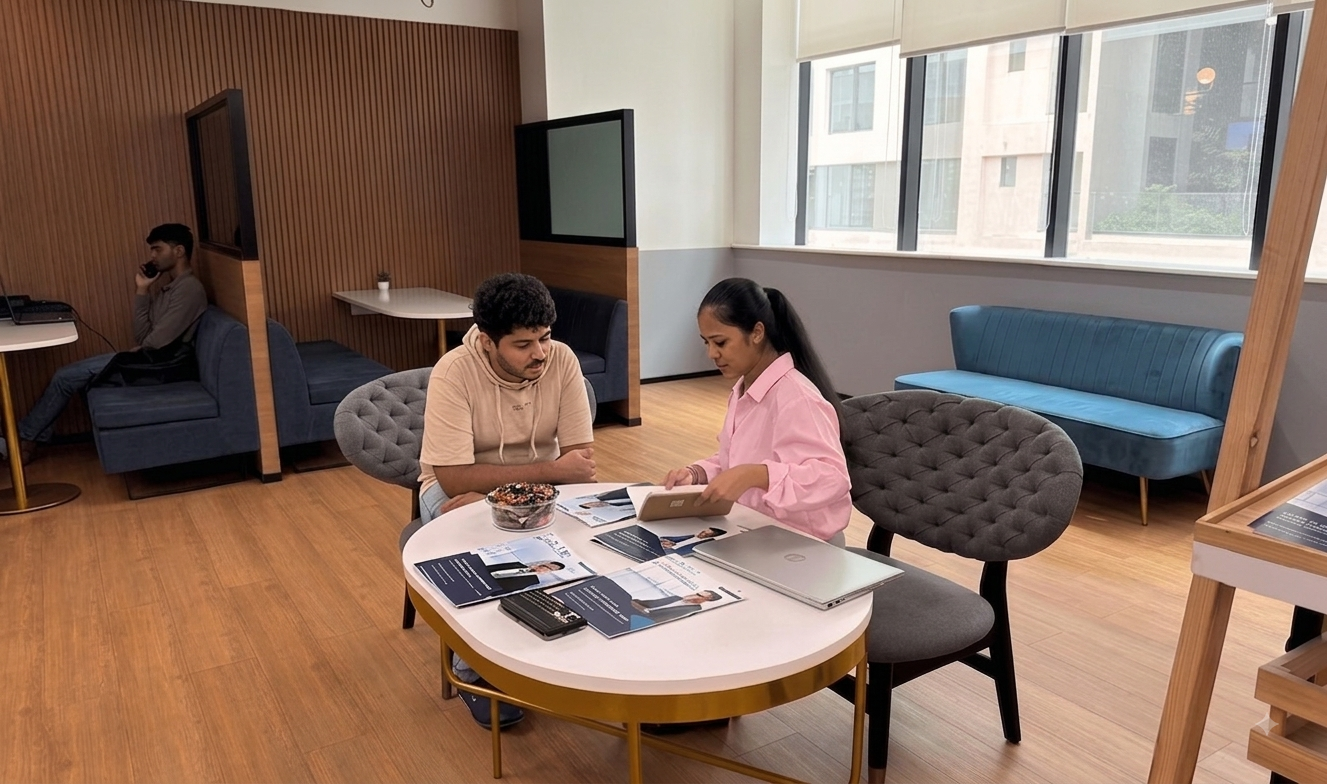
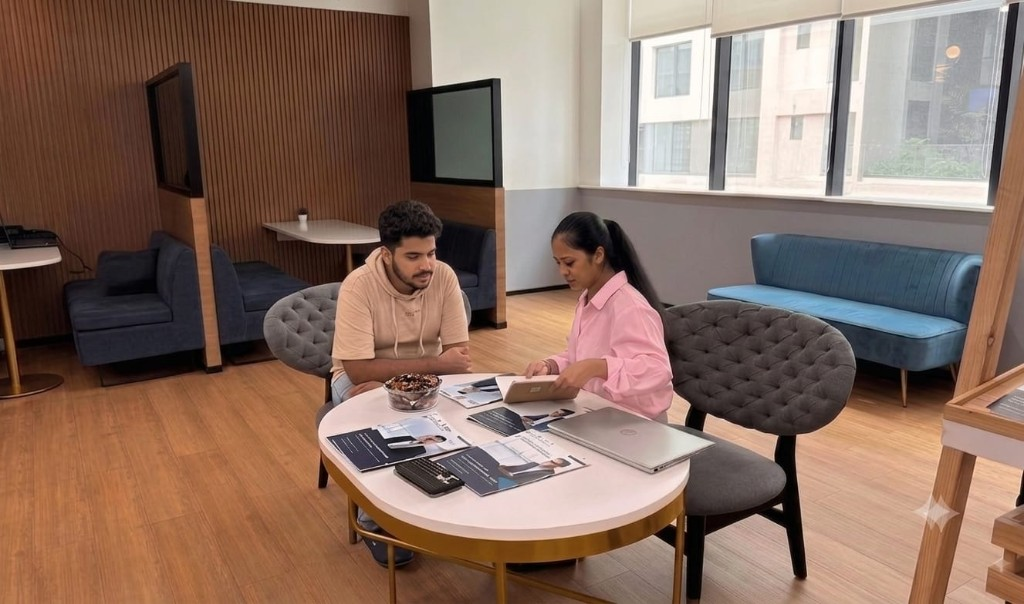
changed the Why choose us image

diff --git a/template2/src/pages/Home.tsx b/template2/src/pages/Home.tsx
@@ -42,14 +42,16 @@ import {
   featureVisualImageClass,
 } from '../components/home/featureVisuals'
 
-const FEATURE_ANIMATION_BREAKPOINT_PX = 1024
+const FEATURE_ANIMATION_BREAKPOINT_PX = 1280
+const FEATURE_DESKTOP_MEDIA_QUERY =
+  `(min-width: ${FEATURE_ANIMATION_BREAKPOINT_PX}px) and (hover: hover) and (pointer: fine)`
 
 function useIsTabletOrDesktop() {
   const [isTabletOrDesktop, setIsTabletOrDesktop] = useState(() =>
-    typeof window !== 'undefined' ? window.innerWidth >= FEATURE_ANIMATION_BREAKPOINT_PX : true
+    typeof window !== 'undefined' ? window.matchMedia(FEATURE_DESKTOP_MEDIA_QUERY).matches : true
   )
   useEffect(() => {
-    const m = window.matchMedia(`(min-width: ${FEATURE_ANIMATION_BREAKPOINT_PX}px)`)
+    const m = window.matchMedia(FEATURE_DESKTOP_MEDIA_QUERY)
     const update = () => setIsTabletOrDesktop(m.matches)
     update()
     m.addEventListener('change', update)
